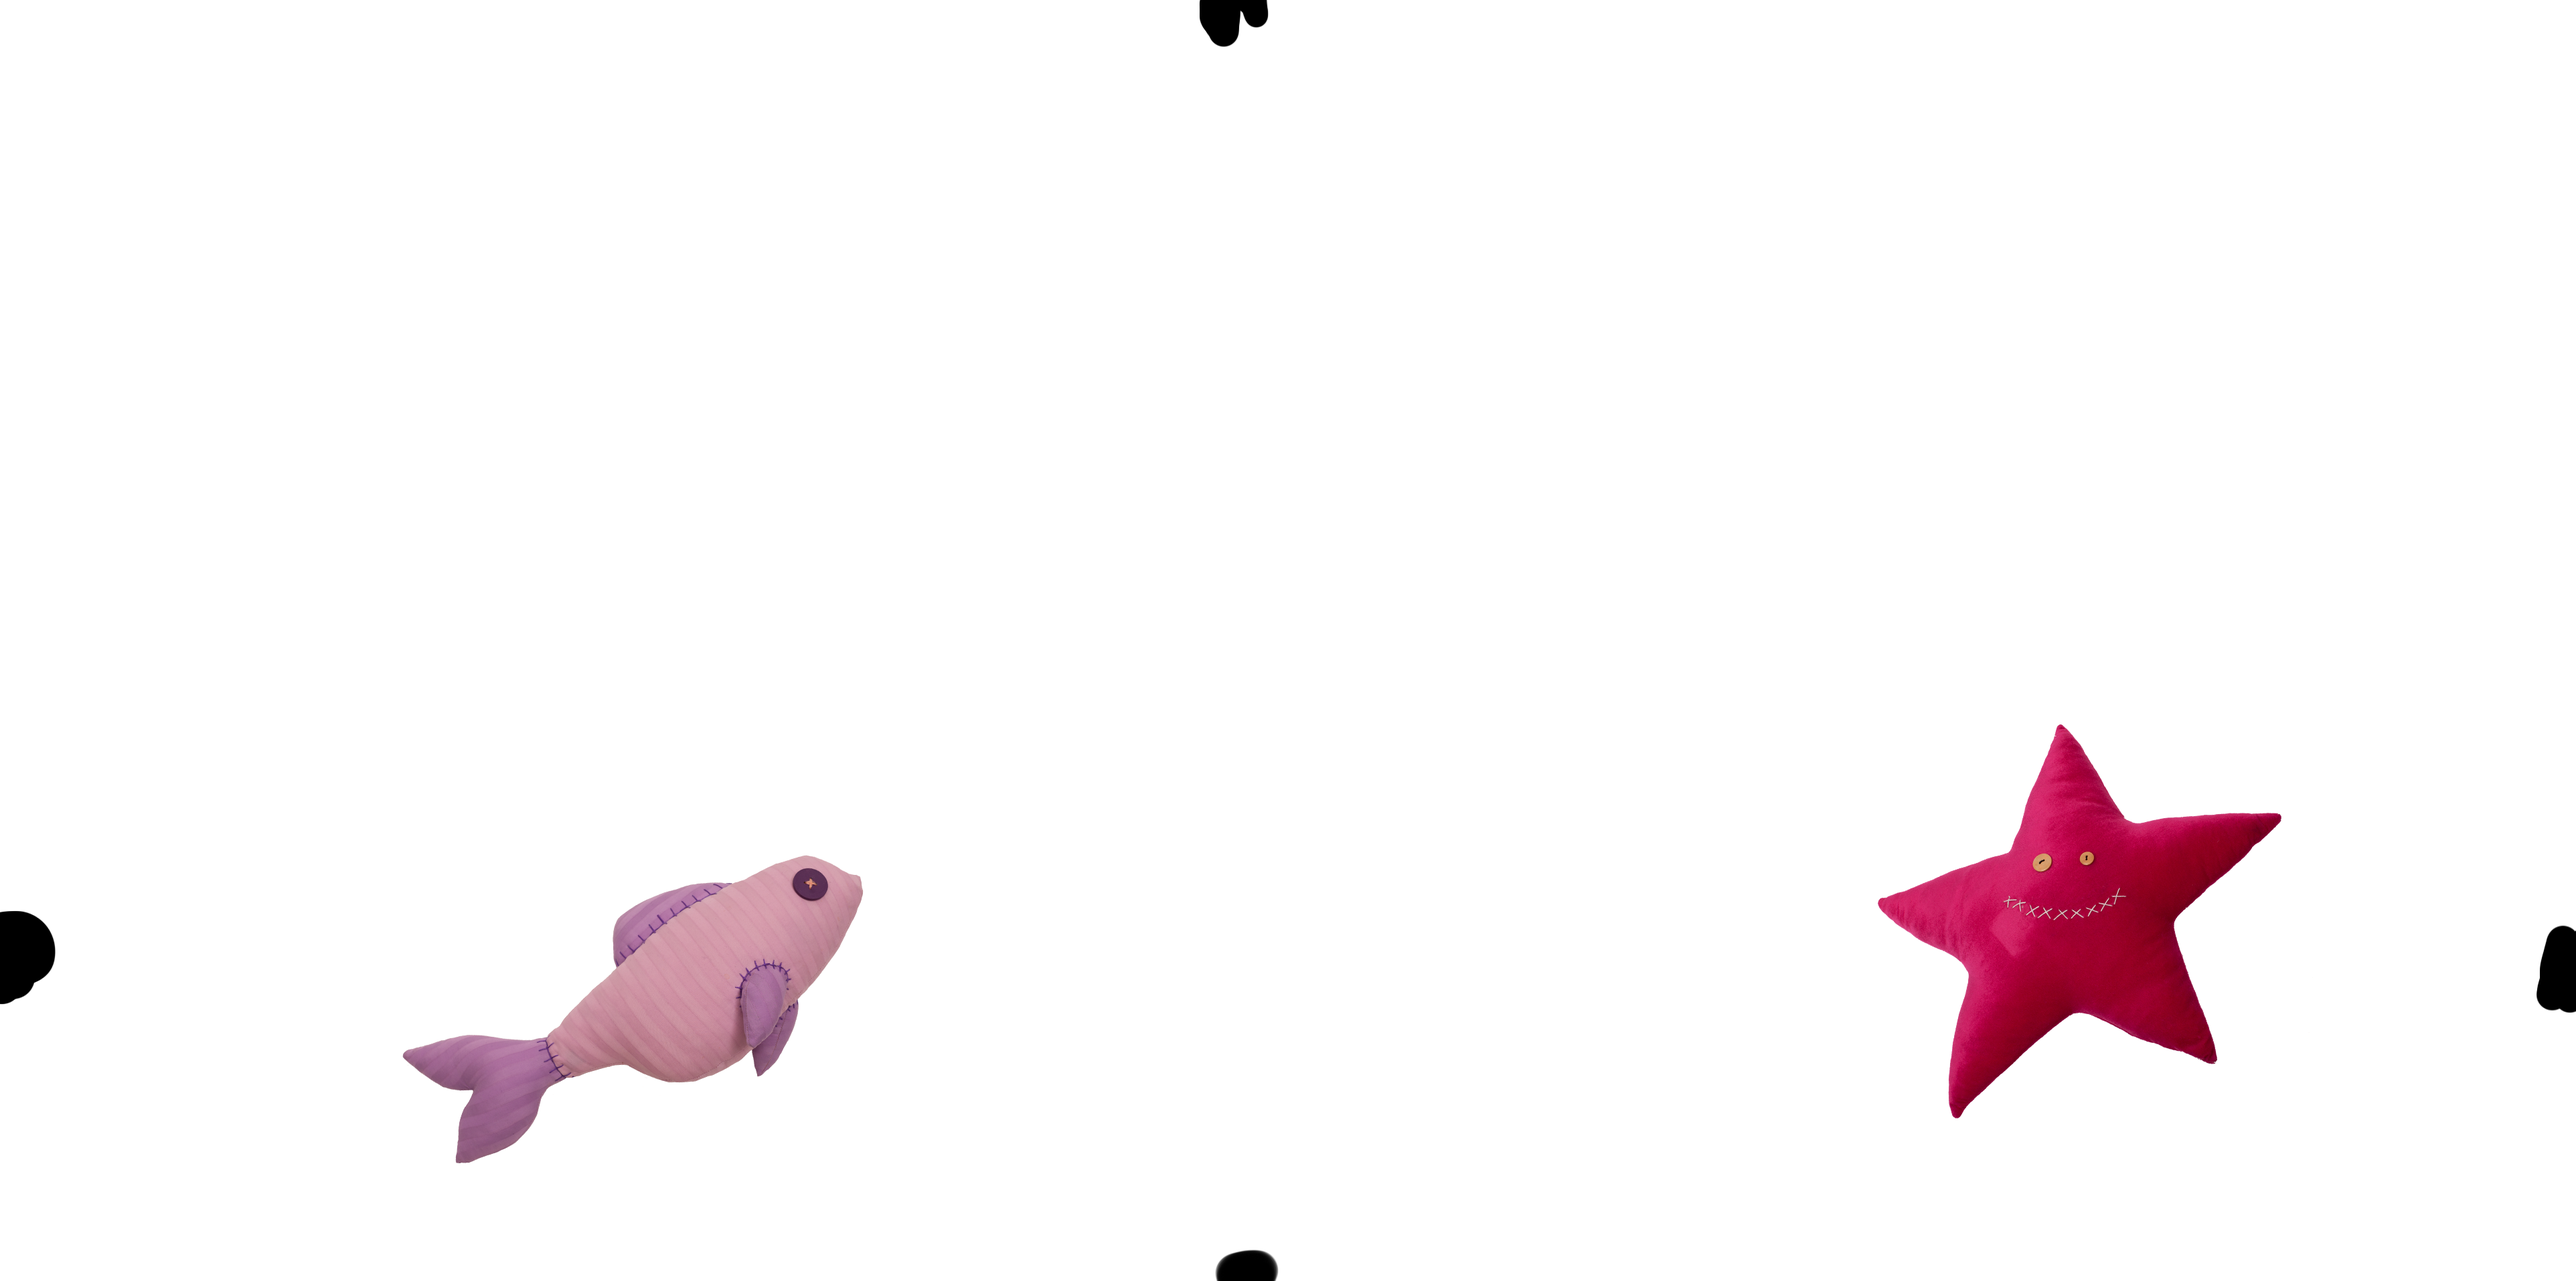
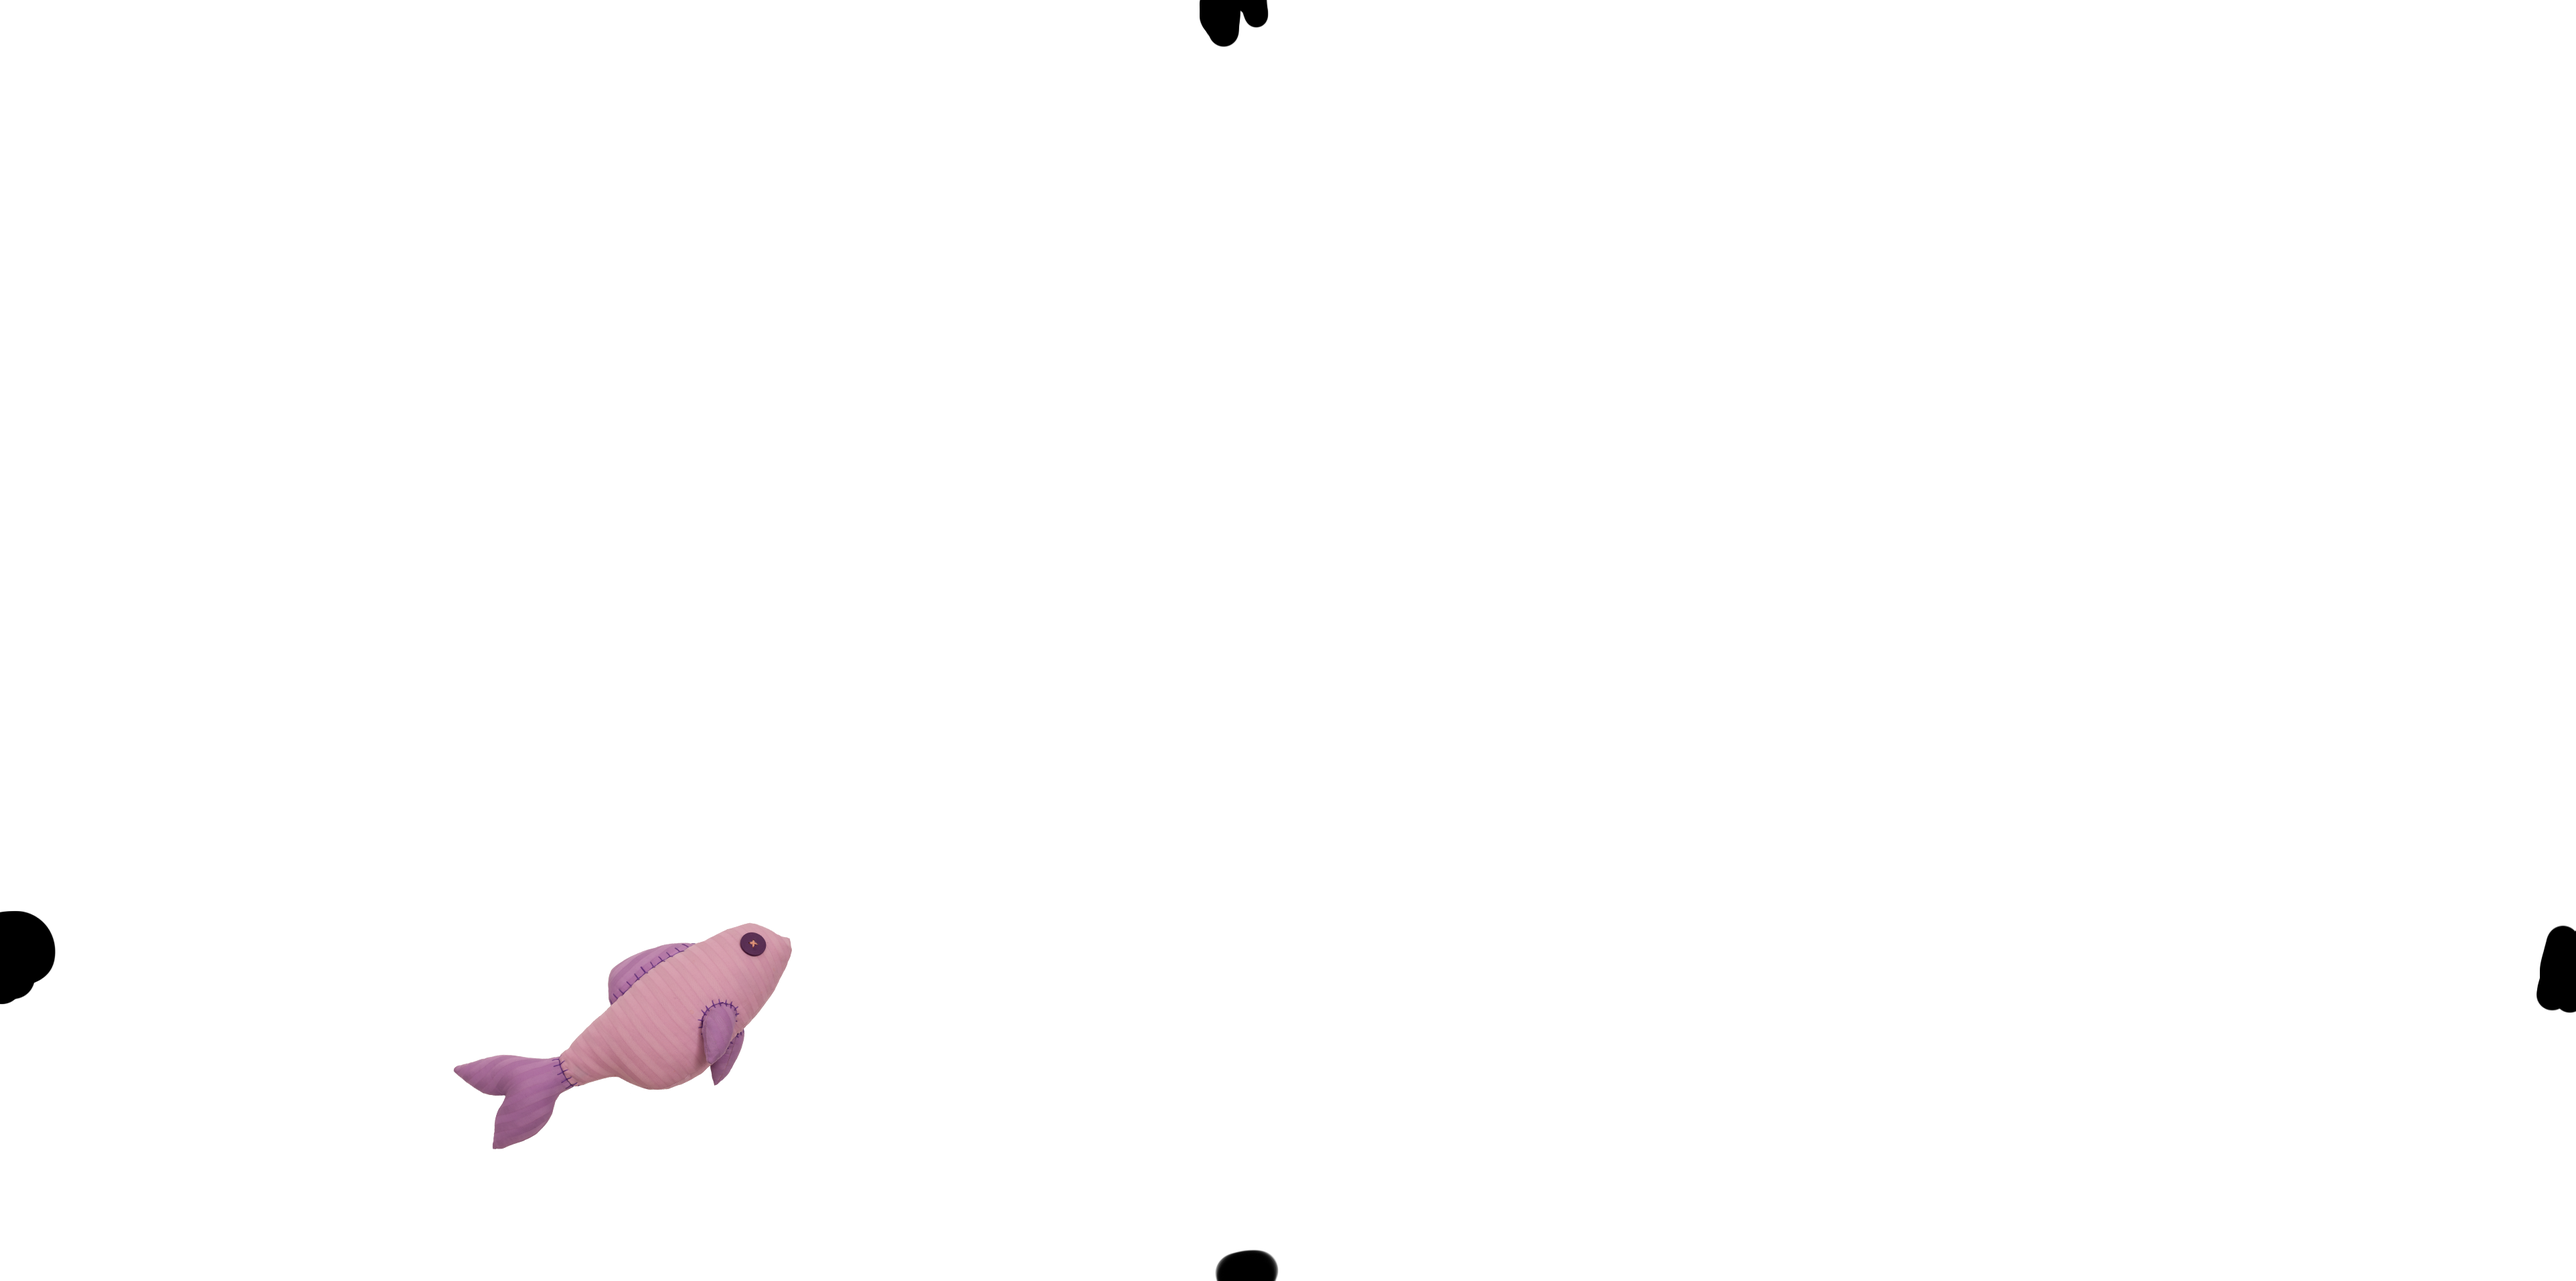
vēl izmaiņas parallax 5eng, bet vēl nav kā vajag

Changed region(s): [[0.7173, 0.5546, 0.9044, 0.8627], [0.1559, 0.6778, 0.343, 0.9243]]

diff --git a/5ENG.html b/5ENG.html
@@ -10,16 +10,22 @@
 
 
 <div class="fons">
-	
-	
-		
-		<img id="mantas" class="mantas parallax-layer transparent" src="./images/mantasparallax/ceturtais.png">
 
-		<img id="mantas1" class="mantas parallax-layer transparent" src="./images/mantasparallax/tresais.png">
+		<img id="mantas" class="mantas parallax-layer transparent" src="./images/mantasparallax/septitais.png">
+
+		<img id="mantas1" class="mantas parallax-layer transparent" src="./images/mantasparallax/sestais.png">
+
+		<img id="mantas2" class="mantas parallax-layer transparent" src="./images/mantasparallax/piektais.png">
+
+		<img id="mantas3" class="mantas parallax-layer transparent" src="./images/mantasparallax/ceturtais.png">
+
+		<img id="mantas4" class="mantas parallax-layer transparent" src="./images/mantasparallax/tresais.png">
  
-		<img id="mantas2" class="mantas parallax-layer transparent" src="./images/mantasparallax/otrais.png">
+		<img id="mantas5" class="mantas parallax-layer transparent" src="./images/mantasparallax/otrais.png">
 
-		<img id="mantas3" class="mantas parallax-layer transparent" src="./images/mantasparallax/pirmais.png">
+		<img id="mantas6" class="mantas parallax-layer transparent" src="./images/mantasparallax/pirmais.png">
+
+		<img id="mantas7" class="mantas parallax-layer transparent" src="./images/mantasparallax/nulltais.png">
 
 	
 

diff --git a/scripts/jquery.parallaxOtrais.js b/scripts/jquery.parallaxOtrais.js
@@ -16,8 +16,8 @@
 	    	mouseport:     'body',  // jQuery object or selector of DOM node to use as mouseport
 	    	xparallax:     0.9,    // boolean | 0-1 | 'npx' | 'n%'
 	    	yparallax:     0.9,    //
-	    	xorigin:       0.9,     // 0-1 - Sets default alignment. Only has effect when parallax values are something other than 1 (or true, or '100%')
-	    	yorigin:       0.9,     //
+	    	xorigin:       0.2,     // 0-1 - Sets default alignment. Only has effect when parallax values are something other than 1 (or true, or '100%')
+	    	yorigin:       0.2,     //
 	    	decay:         0.99,    // 0-1 (0 instant, 1 forever) - Sets rate of decay curve for catching up with target mouse position
 	    	frameDuration: 30,      // Int (milliseconds)
 	    	freezeClass:   'freeze' // String - Class added to layer when frozen

diff --git a/scripts/5.js b/scripts/5.js
@@ -9,8 +9,8 @@ $(document).ready(function(){
 
 	$(".story").click(function(){
 		writethis("and people listened in return", ".story")
-		$("#mantas, #mantas1, #mantas2, #mantas3").removeClass("transparent")
-		$("#mantas, #mantas1, #mantas2, #mantas3").addClass("visible")
+		$("#mantas, #mantas1, #mantas2, #mantas3, #mantas4, #mantas5, #mantas6, #mantas7").removeClass("transparent")
+		$("#mantas, #mantas1, #mantas2, #mantas3, #mantas4, #mantas5, #mantas6, #mantas7").addClass("visible")
 
 	$(".story").click(function(){
 		writethis("Over time, it got to a point", ".story")
